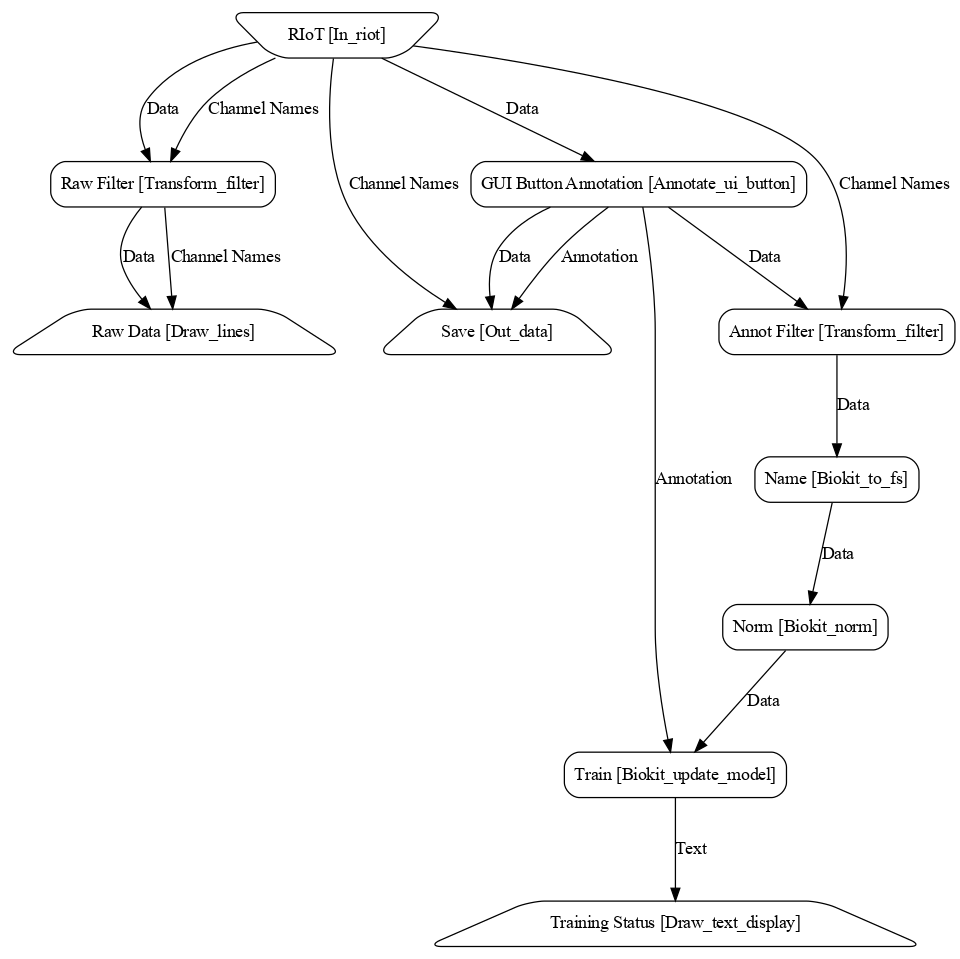
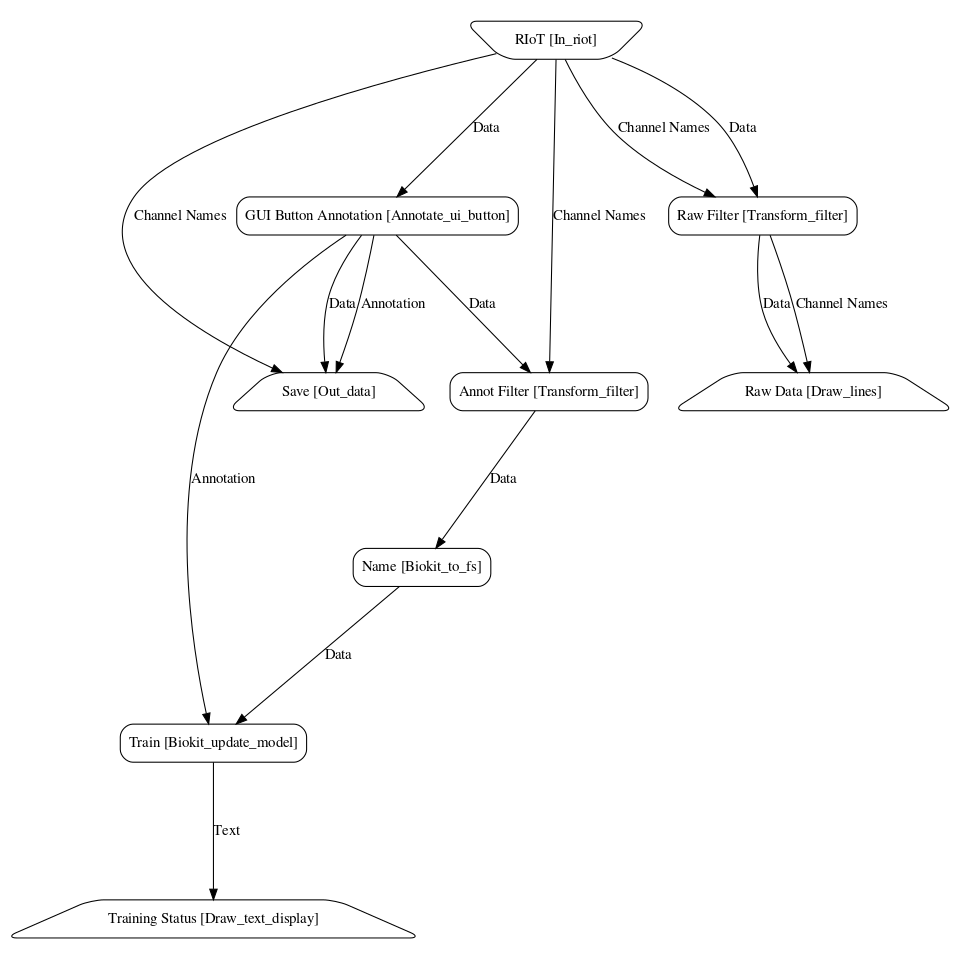
fixed riot biokit model only returning none

diff --git a/projects/percom22/create_pipelines.py b/projects/percom22/create_pipelines.py
@@ -50,7 +50,7 @@ def add_riot_draw(pl, subset=2):
     return pl
 
 def riot_add_recog(pl, has_annotation=False):
-    filter1 =Transform_filter(name="Annot Filter", names=["ACC_X", "ACC_Y", "ACC_Z", "GYRO_X", "GYRO_Y", "GYRO_Z"])
+    filter1 = Transform_filter(name="Annot Filter", names=["ACC_X", "ACC_Y", "ACC_Z", "GYRO_X", "GYRO_Y", "GYRO_Z"])
     filter1.add_input(pl)
     filter1.add_input(pl, emitting_channel="Channel Names", receiving_channel="Channel Names")
 
@@ -127,6 +127,8 @@ if __name__ == "__main__":
     x_processed = 10
     n_bits = 16
 
+    # === Online stuff ========================================================
+
     print('=== Build RIoT Record Pipeline ===')
     pl = In_riot(id=0, listen_port=9000)
     # frm_ctr = Debug_frame_counter()
@@ -152,8 +154,8 @@ if __name__ == "__main__":
     to_fs = Biokit_to_fs()
     to_fs.add_input(filter1)
 
-    norm = Biokit_norm()
-    norm.add_input(to_fs)
+    # norm = Biokit_norm()
+    # norm.add_input(to_fs)
 
     pl_train_new = Biokit_update_model(model_path="./models/RIoT/sequence", \
         token_insertion_penalty=20,
@@ -161,13 +163,22 @@ if __name__ == "__main__":
         train_iterations=(7, 10),
         catch_all="None"
         )
-    pl_train_new.add_input(norm)
+    pl_train_new.add_input(to_fs)
     pl_train_new.add_input(annot, emitting_channel="Annotation", receiving_channel="Annotation")
 
     status_text = Draw_text_display(name="Training Status")
     status_text.add_input(pl_train_new, emitting_channel="Text", receiving_channel="Text")
     save(pl, "live_record_update.json")
     
+
+    print('=== Build RIoT Live Recognition ===')
+    pl = In_riot(id=0)
+    pl = add_riot_draw(pl, subset=0.5)
+    pl = riot_add_recog(pl, has_annotation=False)
+    save(pl, "live_recog.json")
+
+
+    # === Offline stuff ========================================================
 
 
     print('=== Build RIoT Playback Pipeline ===')
@@ -187,8 +198,4 @@ if __name__ == "__main__":
     save(pl, "playback_recog.json")
 
 
-    print('=== Build RIoT Live Recognition ===')
-    pl = In_riot(id=0)
-    pl = add_riot_draw(pl, subset=0.5)
-    pl = riot_add_recog(pl, has_annotation=False)
-    save(pl, "live_recog.json")
+    

diff --git a/src/livenodes/biokit/biokit_recognizer.py b/src/livenodes/biokit/biokit_recognizer.py
@@ -62,7 +62,8 @@ class Biokit_recognizer(Node):
         }
 
     def _should_process(self, data=None, file=None):
-        return data is not None
+        return data is not None \
+            and (file is not None or not self._is_input_connected('File'))
 
     def process(self, data, file=None, **kwargs):
         # IMPORTANT/TODO: check if this is equivalent to the previous behaviour,ie if we always receive the file together with the data
@@ -154,7 +155,7 @@ class Biokit_recognizer(Node):
                 hypothesis = self.reco.handler.getCurrentHypoNodeIds()
                 hypo_states = self.reco.handler.getCurrentHypoStates()
 
-            # We will be proactive and tell subsequent nodes if we failed to
+            # We will be proactive and tell subsequent nodes if we failed, rather than ommiting data (as this would break the clock approach)
             self._emit_data(res, channel="Recognition")
 
             # Maybe consider adding a mechanism that only calcs/gets this if someone requested it?

diff --git a/src/livenodes/core/logger.py b/src/livenodes/core/logger.py
@@ -13,7 +13,7 @@ class LogLevel(IntEnum):
 
 
 class Logger():
-    _log_level = LogLevel.VERBOSE
+    _log_level = LogLevel.DEBUG
     _lock = mp.Lock()
 
     cbs = []
